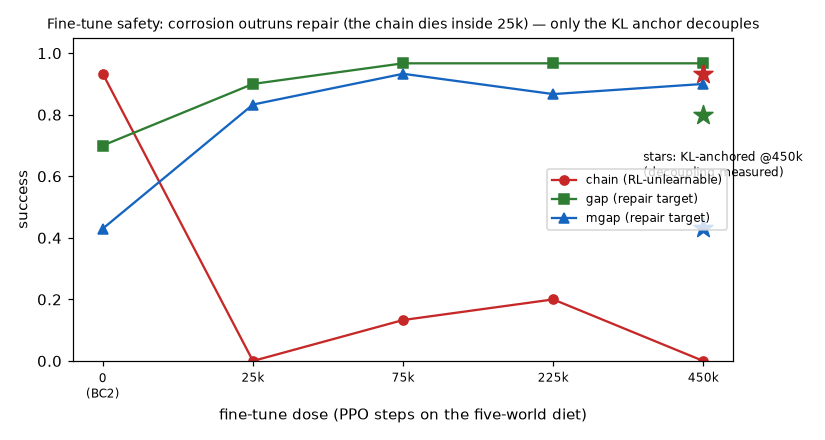
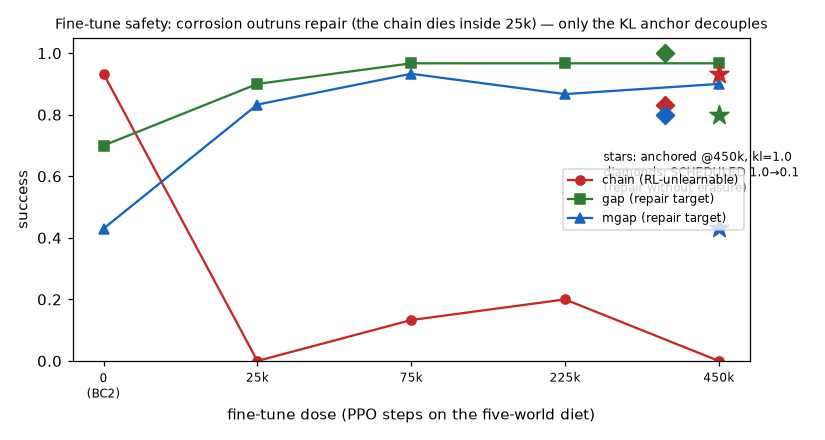
docs: text-and-numbers pass — six-clause law in GLOSSARY, schedule diamonds on the FT chart, README FT paragraph current
Claude-Session: https://claude.ai/code/session_01GGt7SZ3GgNrbrXFrC5UWcn

diff --git a/eval/eval_results_figures.py b/eval/eval_results_figures.py
@@ -134,6 +134,8 @@ FT_CHAIN = (0.933, 0.00, 0.133, 0.20, 0.00)
 FT_GAP = (0.70, 0.90, 0.967, 0.967, 0.967)
 FT_MGAP = (0.43, 0.833, 0.933, 0.867, 0.90)
 ANCHOR = {"chain": 0.933, "gap": 0.80, "mgap": 0.433}  # 450k @ kl=1.0
+# scheduled anchor 1.0->0.1 @450k — experiments/anchor_dial/journal.md
+SCHED = {"chain": 0.833, "gap": 1.000, "mgap": 0.800}
 
 
 def finetune_safety_figure():
@@ -148,9 +150,16 @@ def finetune_safety_figure():
         ("mgap", ANCHOR["mgap"], "#1565c0"),
     ):
         ax.scatter([len(FT_DOSES) - 1], [y], marker="*", s=170, color=c, zorder=5)
+    for key, y, c in (
+        ("chain", SCHED["chain"], RED),
+        ("gap", SCHED["gap"], GREEN),
+        ("mgap", SCHED["mgap"], "#1565c0"),
+    ):
+        ax.scatter([len(FT_DOSES) - 1.35], [y], marker="D", s=70, color=c, zorder=5)
     ax.annotate(
-        "stars: KL-anchored @450k\n(decoupling measured)",
-        xy=(3.6, 0.6),
+        "stars: anchored @450k, kl=1.0\ndiamonds: SCHEDULED "
+        "1.0\u21920.1\n(repair without erasure)",
+        xy=(3.25, 0.55),
         fontsize=8,
     )
     ax.set_xticks(list(xs))

diff --git a/docs/GLOSSARY.md b/docs/GLOSSARY.md
@@ -65,6 +65,32 @@ Alphabetical-ish, grouped by layer. Every term links to a live example.
   [v0.5 M2](../experiments/metric_grounding/journal.md)): model-layer
   gains do not transfer to closed-loop crash rates by right. Hence:
   evaluate by crash rate, not loss.
+- **the fine-tune safety law** — six measured clauses on what PPO
+  fine-tuning does to a multi-skill prior: (1) repairs skills inside
+  its diet; (2) corrodes skills outside it; (3) erases RL-unlearnable
+  skills even *inside* it (corrosion outruns repair — dead in 25k);
+  (4) a strong-but-imperfect prior can land a basin worse than
+  from-scratch; (5) anchor protection is **mass-weighted** — thin
+  diet slices corrode almost as if naked
+  ([tenth sitting](../experiments/slalom_v2_promotion/journal.md));
+  (6) anchors defend against **drift, not reward** — behavior the
+  diet-majority reward opposes is erased through a relaxing anchor
+  ([dodge-crown](../experiments/dodge_crown/journal.md)).
+- **the crown recipe** — the composition that took the slalom-v2
+  throne after eleven sittings: **BC shape + mass-weighted anchored
+  repair + slice-aware diet** (clone a teacher pot, fine-tune under a
+  KL-*schedule* anchor 1.0→0.1, give every graded slice rollout mass
+  — [the crowning](../experiments/slalom_v2_promotion/journal.md)).
+
+- **KL anchor / anchor schedule / per-group anchor** — the anchored
+  fine-tune family (`AnchoredPPO`, `scripts/distill.py`): a frozen
+  copy of the prior policy penalizes divergence on rollout states.
+  Constant coefficients TRADE (repair one skill, bleed another);
+  a schedule (1.0→0.1, `--anchor-end`) BUYS (early tightness guards
+  the fragile skill, late freedom finishes the repair); per-group
+  coefficients (`--anchor-ball-end`) pin reward-opposed behavior
+  while the rest relaxes — the dial's three measured axes
+  ([anchor-dial](../experiments/anchor_dial/journal.md)).
 
 ## The stack layer
 

diff --git a/README.md b/README.md
@@ -93,7 +93,7 @@ guards green, in three gates (`experiments/gap_flight/journal.md`).
 
 ## Results at a glance
 
-Four figures carry the repo's headline findings; every number is a
+Five arc figures carry the repo's headline findings; every number is a
 gated campaign record, failures drawn as prominently as wins. Per-skill
 gate charts (every criterion vs its frozen bar, knob by knob) live in
 [docs/figures/](docs/figures/); everything regenerates mechanically
@@ -114,8 +114,15 @@ anchored-schedule fine-tune + edge-biased diet) — the skill's crown:
 repairs the weak skills and erases the chain — and the erasure is
 FASTER than the repair (dead inside 25k steps), so early stopping
 cannot help. A KL anchor to the frozen prior decouples: chain intact,
-gap repaired past its bar; the deeper mgap drift needs more movement
-than kl=1.0 permits:
+gap repaired past its bar. The deeper mgap drift needs more movement
+than a constant kl=1.0 permits — a SCHEDULED anchor (1.0 → 0.1,
+diamonds) buys it: early tightness carries the chain through the
+period when re-optimization is fiercest, late freedom finishes the
+repair. Two limits are measured, not assumed: anchor pressure is
+mass-weighted (thin diet slices corrode almost as if naked), and
+anchors defend against drift, not against reward (a station economy
+opposed by the diet majority's progress reward was erased through a
+relaxing anchor):
 
 ![fine-tune safety](docs/figures/arc_finetune_safety.png)
 

diff --git a/docs/RESEARCH-IDEAS.md b/docs/RESEARCH-IDEAS.md
@@ -42,8 +42,12 @@
   biased by a strong-but-imperfect prior into a basin WORSE than
   from-scratch (dodge-distill K1: fled the box under the same tick
   economy K3 used to hold it). Safe iff the diet covers everything you
-  care about AND all of it is RL-learnable. Crown vacant, ninth
-  sitting (`experiments/bcft_generalist/journal.md`).
+  care about AND all of it is RL-learnable. Since extended to six
+  clauses — (5) anchor pressure is mass-weighted; (6) anchors defend
+  against drift, not reward — and the slalom-v2 crown landed at the
+  ELEVENTH sitting via the schedule anchor
+  (`experiments/slalom_v2_promotion/journal.md`,
+  `experiments/dodge_crown/journal.md`).
 - ~~OracleDodge distillation~~ CLOSED 2026-07-06, SUPPORT —
   **dodge@v1.8 = 60 % over its bar, the catalog's only fast-cell
   pass** (crash 80→23 vs RL). Representation verdict instrument-